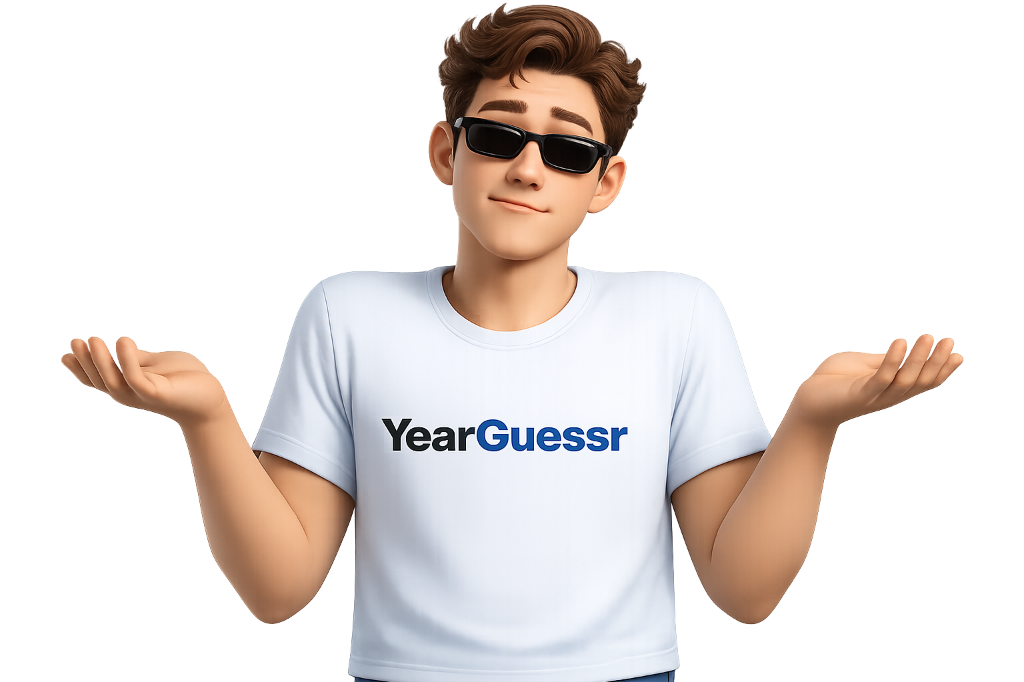
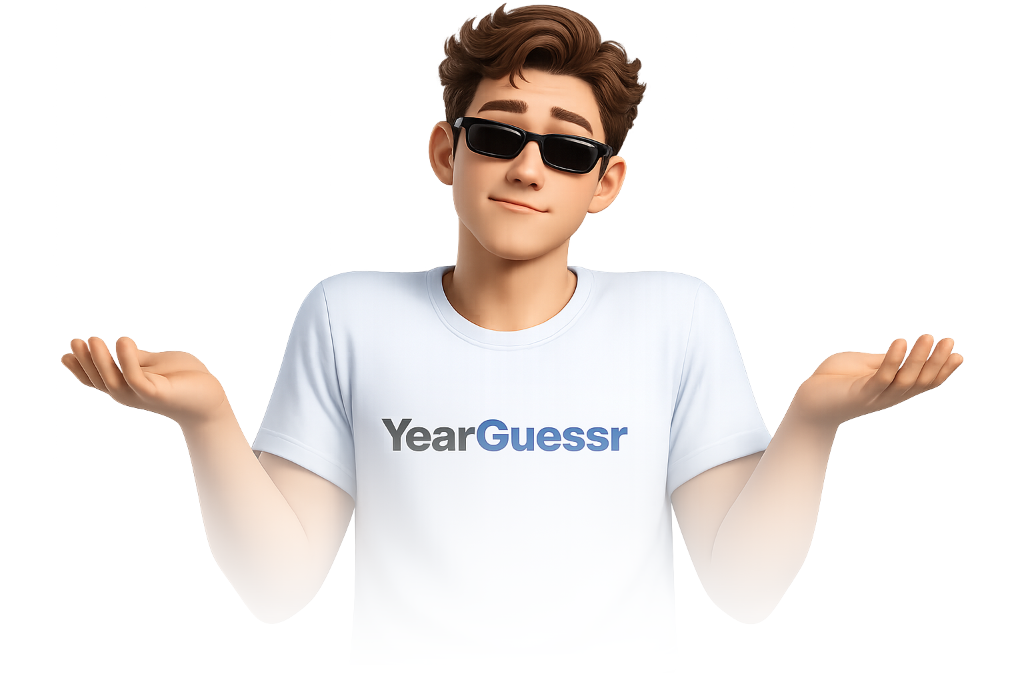
style: redesign 404 page with high-end dark glassmorphism, bake smooth alpha gradient into mascot PNG pixels, and push to GitHub repo

Changed region(s): [[0.125, 0.585, 0.875, 1.0]]

diff --git a/src/app/not-found.tsx b/src/app/not-found.tsx
@@ -2,46 +2,80 @@
 
 import "./globals.css";
 import Link from 'next/link';
-import { Home } from 'lucide-react';
+import Image from 'next/image';
+import { Home, Trophy, ArrowRight, Sparkles, History } from 'lucide-react';
 
 export default function NotFound() {
   return (
     <html lang="pt" className="dark">
-      <body className="min-h-screen bg-[#09090b] text-white flex flex-col items-center justify-center text-center px-4 font-sans">
-        <div className="relative w-56 sm:w-72 h-56 sm:h-72 mb-4 drop-shadow-2xl flex items-center justify-center">
-          {/* eslint-disable-next-line @next/next/no-img-element */}
-          <img
-            src="/mascot-shrug.png"
-            alt="YearGuessr Mascot 404"
-            className="w-full h-full object-contain animate-in fade-in slide-in-from-bottom-5 duration-700"
-            style={{
-              WebkitMaskImage: 'linear-gradient(to bottom, rgba(0,0,0,1) 50%, rgba(0,0,0,0) 96%)',
-              maskImage: 'linear-gradient(to bottom, rgba(0,0,0,1) 50%, rgba(0,0,0,0) 96%)',
-            }}
-          />
+      <body className="min-h-screen bg-[#09090b] text-foreground flex flex-col items-center justify-center text-center px-4 font-sans relative overflow-hidden selection:bg-amber-500/30 selection:text-amber-400">
+        
+        {/* Background Grid Pattern & Glowing Orbs */}
+        <div className="absolute inset-0 bg-[linear-gradient(to_right,#ffffff05_1px,transparent_1px),linear-gradient(to_bottom,#ffffff05_1px,transparent_1px)] bg-[size:3.5rem_3.5rem] pointer-events-none" />
+        <div className="absolute top-1/4 left-1/2 -translate-x-1/2 -translate-y-1/2 w-96 h-96 bg-amber-500/15 rounded-full blur-[120px] pointer-events-none" />
+        <div className="absolute bottom-1/4 left-1/2 -translate-x-1/2 w-80 h-80 bg-sky-500/10 rounded-full blur-[100px] pointer-events-none" />
+
+        {/* 404 Giant Watermark Backing */}
+        <span className="absolute top-1/2 left-1/2 -translate-x-1/2 -translate-y-1/2 text-[14rem] sm:text-[22rem] font-mono font-black text-amber-500/[0.04] select-none pointer-events-none tracking-tighter">
+          404
+        </span>
+
+        {/* Main Content Box */}
+        <div className="relative z-10 max-w-lg w-full space-y-6 p-8 sm:p-10 rounded-3xl bg-card/60 border border-border/70 backdrop-blur-2xl shadow-2xl animate-in zoom-in-95 duration-300">
+          
+          {/* Mascot Image with Baked Soft Alpha Gradient */}
+          <div className="relative w-44 h-44 sm:w-52 sm:h-52 mx-auto drop-shadow-2xl -mt-6 -mb-2">
+            <Image
+              src="/mascot-shrug.png"
+              alt="YearGuessr Mascot 404"
+              fill
+              className="object-contain animate-in fade-in slide-in-from-bottom-6 duration-700"
+              priority
+            />
+          </div>
+
+          {/* Badge & Typography */}
+          <div className="space-y-3">
+            <div className="inline-flex items-center gap-1.5 px-3.5 py-1 rounded-full bg-amber-500/10 border border-amber-500/30 text-amber-500 dark:text-amber-400 font-mono text-[11px] font-bold uppercase tracking-wider shadow-xs">
+              <History className="w-3.5 h-3.5" />
+              <span>404 — Página Perdida no Tempo</span>
+            </div>
+
+            <h1 className="text-3xl sm:text-4xl font-black tracking-tight text-foreground font-serif">
+              Ops! Em que ano essa página foi parar?
+            </h1>
+
+            <p className="text-xs sm:text-sm text-muted-foreground leading-relaxed max-w-sm mx-auto">
+              Procuramos por toda a linha do tempo histórica, mas este endereço não existe ou foi transportado para outra época.
+            </p>
+          </div>
+
+          {/* CTA Buttons */}
+          <div className="pt-2 flex flex-col sm:flex-row items-center justify-center gap-3">
+            <Link
+              href="/pt"
+              className="w-full sm:w-auto py-3.5 px-6 rounded-2xl bg-amber-500 hover:bg-amber-400 text-black font-black text-xs uppercase tracking-wider shadow-lg shadow-amber-500/20 transition-all hover:scale-[1.02] active:scale-95 flex items-center justify-center gap-2 cursor-pointer"
+            >
+              <Home className="w-4 h-4" />
+              <span>Voltar ao Jogo</span>
+              <ArrowRight className="w-4 h-4" />
+            </Link>
+
+            <Link
+              href="/pt/ranking"
+              className="w-full sm:w-auto py-3.5 px-6 rounded-2xl bg-muted/60 hover:bg-muted border border-border/60 text-foreground font-bold text-xs uppercase tracking-wider transition-all flex items-center justify-center gap-2 cursor-pointer"
+            >
+              <Trophy className="w-4 h-4 text-amber-500" />
+              <span>Ver Ranking</span>
+            </Link>
+          </div>
         </div>
 
-        <div className="space-y-3 max-w-md">
-          <span className="px-3.5 py-1 rounded-full bg-amber-500/10 border border-amber-500/30 text-amber-400 font-mono text-xs font-bold uppercase tracking-wider">
-            Erro 404 — Não Encontrado
-          </span>
-          <h1 className="text-3xl sm:text-4xl font-black tracking-tight text-white">
-            Ops! Em que ano essa página foi parar?
-          </h1>
-          <p className="text-sm text-gray-400 leading-relaxed">
-            Procuramos por toda a história, mas a página que você tentou acessar não existe ou mudou de endereço.
-          </p>
-        </div>
+        {/* Footer Brand Credit */}
+        <p className="relative z-10 mt-8 text-[11px] font-mono text-muted-foreground/60">
+          YearGuessr &copy; {new Date().getFullYear()} &bull; Todos os direitos reservados
+        </p>
 
-        <div className="mt-8 flex items-center gap-3">
-          <Link
-            href="/pt"
-            className="py-3.5 px-7 rounded-2xl bg-amber-500 hover:bg-amber-400 text-black font-black text-xs uppercase tracking-wider shadow-lg transition-all flex items-center gap-2 cursor-pointer active:scale-95"
-          >
-            <Home className="w-4 h-4" />
-            <span>Voltar ao Jogo</span>
-          </Link>
-        </div>
       </body>
     </html>
   );

diff --git a/src/app/[locale]/not-found.tsx b/src/app/[locale]/not-found.tsx
@@ -2,42 +2,74 @@
 
 import Link from 'next/link';
 import Image from 'next/image';
-import { ArrowLeft, Home } from 'lucide-react';
+import { Home, Trophy, ArrowRight, History } from 'lucide-react';
+import { useTranslations } from 'next-intl';
 
 export default function NotFound() {
   return (
-    <div className="min-h-[75vh] flex flex-col items-center justify-center text-center px-4 py-12">
-      <div className="relative w-56 sm:w-72 h-56 sm:h-72 mb-6 drop-shadow-2xl">
-        <Image
-          src="/mascot-shrug.png"
-          alt="YearGuessr Mascot 404"
-          fill
-          className="object-contain animate-in fade-in slide-in-from-bottom-5 duration-700 [mask-image:linear-gradient(to_bottom,black_65%,transparent_100%)]"
-          priority
-        />
+    <div className="min-h-[85vh] flex flex-col items-center justify-center text-center px-4 font-sans relative overflow-hidden selection:bg-amber-500/30 selection:text-amber-400">
+      
+      {/* Background Grid Pattern & Glowing Orbs */}
+      <div className="absolute inset-0 bg-[linear-gradient(to_right,#ffffff05_1px,transparent_1px),linear-gradient(to_bottom,#ffffff05_1px,transparent_1px)] bg-[size:3.5rem_3.5rem] pointer-events-none" />
+      <div className="absolute top-1/4 left-1/2 -translate-x-1/2 -translate-y-1/2 w-96 h-96 bg-amber-500/15 rounded-full blur-[120px] pointer-events-none" />
+      <div className="absolute bottom-1/4 left-1/2 -translate-x-1/2 w-80 h-80 bg-sky-500/10 rounded-full blur-[100px] pointer-events-none" />
+
+      {/* 404 Giant Watermark Backing */}
+      <span className="absolute top-1/2 left-1/2 -translate-x-1/2 -translate-y-1/2 text-[14rem] sm:text-[22rem] font-mono font-black text-amber-500/[0.04] select-none pointer-events-none tracking-tighter">
+        404
+      </span>
+
+      {/* Main Content Box */}
+      <div className="relative z-10 max-w-lg w-full space-y-6 p-8 sm:p-10 rounded-3xl bg-card/60 border border-border/70 backdrop-blur-2xl shadow-2xl animate-in zoom-in-95 duration-300">
+        
+        {/* Mascot Image with Baked Soft Alpha Gradient */}
+        <div className="relative w-44 h-44 sm:w-52 sm:h-52 mx-auto drop-shadow-2xl -mt-6 -mb-2">
+          <Image
+            src="/mascot-shrug.png"
+            alt="YearGuessr Mascot 404"
+            fill
+            className="object-contain animate-in fade-in slide-in-from-bottom-6 duration-700"
+            priority
+          />
+        </div>
+
+        {/* Badge & Typography */}
+        <div className="space-y-3">
+          <div className="inline-flex items-center gap-1.5 px-3.5 py-1 rounded-full bg-amber-500/10 border border-amber-500/30 text-amber-500 dark:text-amber-400 font-mono text-[11px] font-bold uppercase tracking-wider shadow-xs">
+            <History className="w-3.5 h-3.5" />
+            <span>404 — Página Perdida no Tempo</span>
+          </div>
+
+          <h1 className="text-3xl sm:text-4xl font-black tracking-tight text-foreground font-serif">
+            Ops! Em que ano essa página foi parar?
+          </h1>
+
+          <p className="text-xs sm:text-sm text-muted-foreground leading-relaxed max-w-sm mx-auto">
+            Procuramos por toda a linha do tempo histórica, mas este endereço não existe ou foi transportado para outra época.
+          </p>
+        </div>
+
+        {/* CTA Buttons */}
+        <div className="pt-2 flex flex-col sm:flex-row items-center justify-center gap-3">
+          <Link
+            href="/pt"
+            className="w-full sm:w-auto py-3.5 px-6 rounded-2xl bg-amber-500 hover:bg-amber-400 text-black font-black text-xs uppercase tracking-wider shadow-lg shadow-amber-500/20 transition-all hover:scale-[1.02] active:scale-95 flex items-center justify-center gap-2 cursor-pointer"
+          >
+            <Home className="w-4 h-4" />
+            <span>Voltar ao Jogo</span>
+            <ArrowRight className="w-4 h-4" />
+          </Link>
+
+          <Link
+            href="/pt/ranking"
+            className="w-full sm:w-auto py-3.5 px-6 rounded-2xl bg-muted/60 hover:bg-muted border border-border/60 text-foreground font-bold text-xs uppercase tracking-wider transition-all flex items-center justify-center gap-2 cursor-pointer"
+          >
+            <Trophy className="w-4 h-4 text-amber-500" />
+            <span>Ver Ranking</span>
+          </Link>
+        </div>
       </div>
 
-      <div className="space-y-3 max-w-md">
-        <span className="px-3.5 py-1 rounded-full bg-amber-500/10 border border-amber-500/30 text-amber-500 font-mono text-xs font-bold uppercase tracking-wider">
-          Erro 404 — Não Encontrado
-        </span>
-        <h1 className="text-3xl sm:text-4xl font-black tracking-tight text-foreground">
-          Ops! Em que ano essa página foi parar?
-        </h1>
-        <p className="text-sm text-muted-foreground leading-relaxed">
-          Procuramos por toda a história, mas a página que você tentou acessar não existe ou mudou de endereço.
-        </p>
-      </div>
-
-      <div className="mt-8 flex items-center gap-3">
-        <Link
-          href="/pt"
-          className="py-3 px-6 rounded-2xl bg-amber-500 hover:bg-amber-400 text-black font-black text-xs uppercase tracking-wider shadow-lg transition-all flex items-center gap-2 cursor-pointer active:scale-95"
-        >
-          <Home className="w-4 h-4" />
-          <span>Voltar ao Jogo</span>
-        </Link>
-      </div>
     </div>
   );
 }
